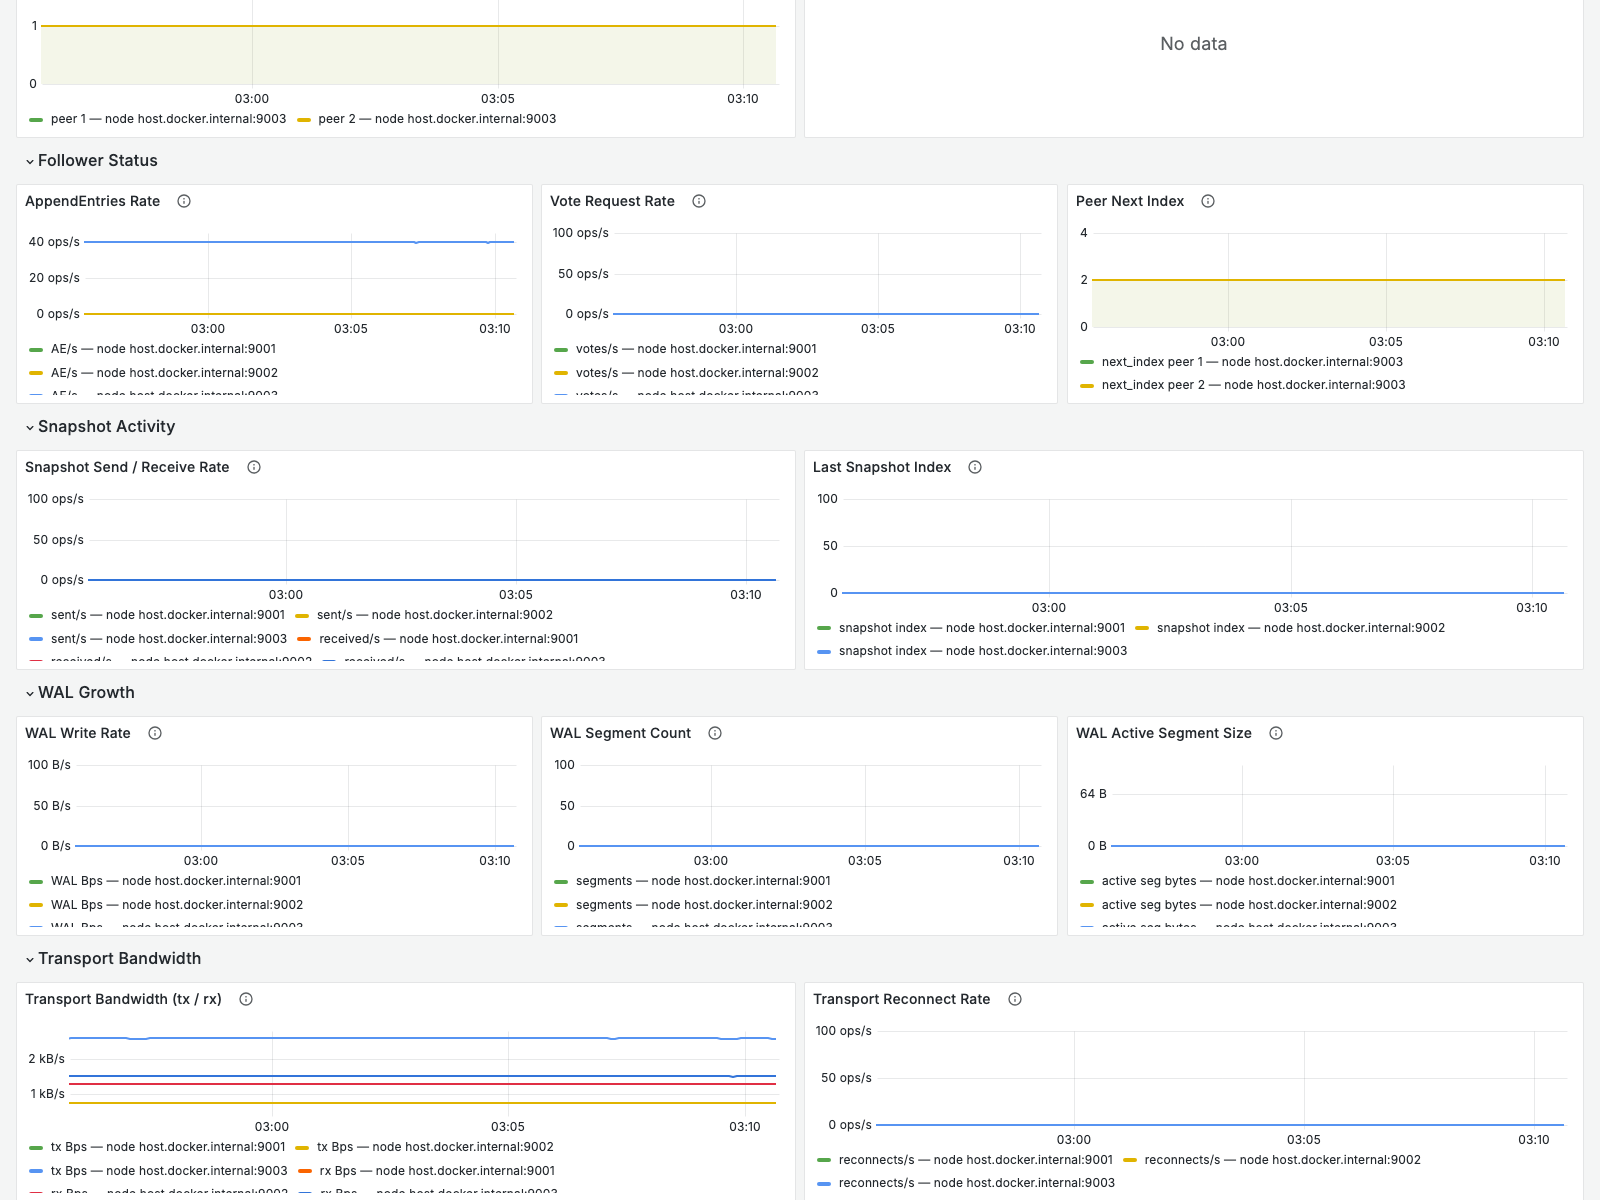
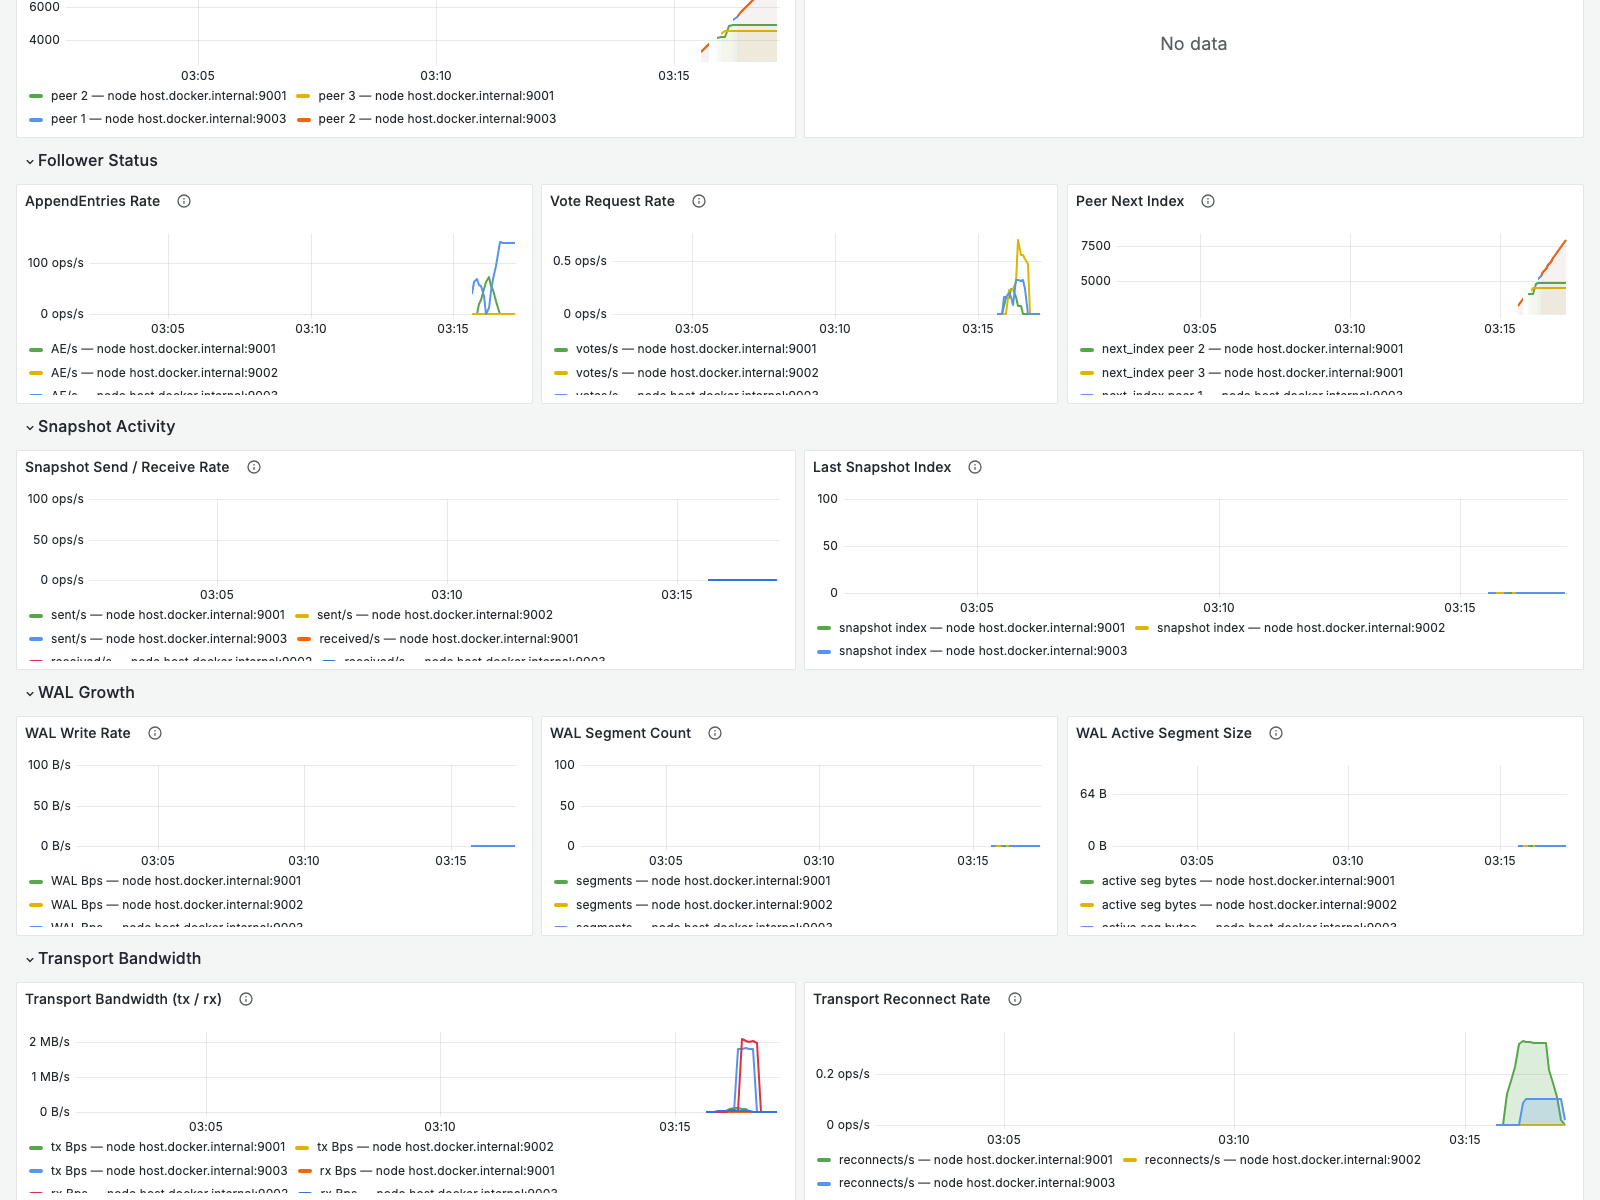
feat(raft-consensus): add --propose-rate flag and retake dashboard screenshots
Add --propose-rate N to raft_node so the leader self-drives N proposals/s,
producing visible throughput, commit-index growth, and replication traffic.
Retake Grafana screenshots under a 50 ops/s workload with 4 forced leader
failovers, showing election spikes, term jumps, and transport bandwidth.

diff --git a/raft-consensus/src/bin/raft_node.rs b/raft-consensus/src/bin/raft_node.rs
@@ -113,6 +113,27 @@ async fn main() -> Result<(), Box<dyn std::error::Error>> {
         });
     }
 
+    // Optional self-driven workload: if --propose-rate N is set, the leader
+    // proposes N synthetic entries per second so metrics show live activity.
+    if args.propose_rate > 0 {
+        let metrics = Arc::clone(&handle.metrics);
+        let propose_tx = handle.propose_tx.clone();
+        let id = args.id;
+        let rate = args.propose_rate;
+        tokio::spawn(async move {
+            let interval_us = 1_000_000u64 / rate as u64;
+            let mut ticker = tokio::time::interval(Duration::from_micros(interval_us));
+            let mut seq: u64 = 0;
+            loop {
+                ticker.tick().await;
+                if metrics.leader_id() == id {
+                    seq += 1;
+                    let _ = propose_tx.send(format!("workload:{seq}").into_bytes());
+                }
+            }
+        });
+    }
+
     // Run the Raft event loop forever.
     runner.run().await;
 
@@ -127,6 +148,7 @@ struct Args {
     peers: Vec<(u64, SocketAddr)>,
     metrics_addr: Option<String>,
     tick_ms: u64,
+    propose_rate: u32,
 }
 
 fn parse_args() -> Result<Args, Box<dyn std::error::Error>> {
@@ -135,6 +157,7 @@ fn parse_args() -> Result<Args, Box<dyn std::error::Error>> {
     let mut peers: Vec<(u64, SocketAddr)> = Vec::new();
     let mut metrics_addr: Option<String> = None;
     let mut tick_ms = DEFAULT_TICK_MS;
+    let mut propose_rate: u32 = 0;
 
     let mut raw = std::env::args().skip(1).peekable();
     while let Some(flag) = raw.next() {
@@ -153,6 +176,7 @@ fn parse_args() -> Result<Args, Box<dyn std::error::Error>> {
             }
             "--metrics" => metrics_addr = Some(val),
             "--tick-ms" => tick_ms = val.parse()?,
+            "--propose-rate" => propose_rate = val.parse()?,
             other => return Err(format!("unknown flag: {other}").into()),
         }
     }
@@ -163,5 +187,6 @@ fn parse_args() -> Result<Args, Box<dyn std::error::Error>> {
         peers,
         metrics_addr,
         tick_ms,
+        propose_rate,
     })
 }
